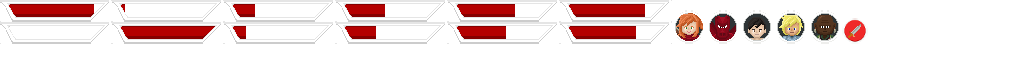
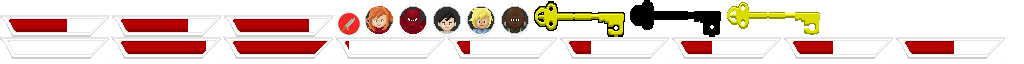
change key system, move key drawing to UI system

diff --git a/Prototypen/Prototype/core/src/org/sausagepan/prototyp/managers/EntityComponentSystem.java b/Prototypen/Prototype/core/src/org/sausagepan/prototyp/managers/EntityComponentSystem.java
@@ -26,7 +26,6 @@ import org.sausagepan.prototyp.model.components.IdComponent;
 import org.sausagepan.prototyp.model.components.InjurableAreaComponent;
 import org.sausagepan.prototyp.model.components.InputComponent;
 import org.sausagepan.prototyp.model.components.InventoryComponent;
-import org.sausagepan.prototyp.model.components.KeyViewerComponent;
 import org.sausagepan.prototyp.model.components.LightComponent;
 import org.sausagepan.prototyp.model.components.MagicComponent;
 import org.sausagepan.prototyp.model.components.MazeGenerator;
@@ -247,7 +246,6 @@ public class EntityComponentSystem {
             localCharacter.add(new MagicComponent(80));
             localCharacter.add(new InjurableAreaComponent(32 * 2.5f, 32 * .6f, .8f, 1f));
             localCharacter.add(new InventoryComponent());
-            localCharacter.add(new KeyViewerComponent(maze.getTiledMapRenderer().getBatch()));
         }
 
         if (clientClass.equals("fighter_m")) {
@@ -259,7 +257,6 @@ public class EntityComponentSystem {
             localCharacter.add(new MagicComponent(80));
             localCharacter.add(new InjurableAreaComponent(32 * 2.5f, 32 * .6f, .8f, 1f));
             localCharacter.add(new InventoryComponent());
-            localCharacter.add(new KeyViewerComponent(maze.getTiledMapRenderer().getBatch()));
         }
 
         if (clientClass.equals("archer_f")) {
@@ -271,7 +268,6 @@ public class EntityComponentSystem {
             localCharacter.add(new MagicComponent(80));
             localCharacter.add(new InjurableAreaComponent(32 * 2.5f, 32 * .6f, .8f, 1f));
             localCharacter.add(new InventoryComponent());
-            localCharacter.add(new KeyViewerComponent(maze.getTiledMapRenderer().getBatch()));
         }
 
         if (clientClass.equals("shaman_m")) {
@@ -283,7 +279,6 @@ public class EntityComponentSystem {
             localCharacter.add(new MagicComponent(80));
             localCharacter.add(new InjurableAreaComponent(32 * 2.5f, 32 * .6f, .8f, 1f));
             localCharacter.add(new InventoryComponent());
-            localCharacter.add(new KeyViewerComponent(maze.getTiledMapRenderer().getBatch()));
         }
 
         if (clientClass.equals("dragon_red")) {
@@ -295,7 +290,6 @@ public class EntityComponentSystem {
             localCharacter.add(new MagicComponent(80));
             localCharacter.add(new InjurableAreaComponent(32 * 2.5f, 32 * .6f, .8f * 2, 1f * 2));   //has to be *2 here and added in CharacterSpriteComponent and DynamicBodyComponent
             localCharacter.add(new InventoryComponent());
-            localCharacter.add(new KeyViewerComponent(maze.getTiledMapRenderer().getBatch()));
             maze.openSecretPassages();  // opens passages for game master
         }
 
@@ -366,7 +360,6 @@ public class EntityComponentSystem {
             newCharacter.add(new MagicComponent(80));
             newCharacter.add(new InjurableAreaComponent(32 * 2.5f, 32 * .6f, .8f, 1f));
             newCharacter.add(new InventoryComponent());
-            newCharacter.add(new KeyViewerComponent(maze.getTiledMapRenderer().getBatch()));
         }
 
         if (newHero.clientClass.equals("fighter_m")) {
@@ -379,7 +372,6 @@ public class EntityComponentSystem {
             newCharacter.add(new MagicComponent(80));
             newCharacter.add(new InjurableAreaComponent(32 * 2.5f, 32 * .6f, .8f, 1f));
             newCharacter.add(new InventoryComponent());
-            newCharacter.add(new KeyViewerComponent(maze.getTiledMapRenderer().getBatch()));
         }
 
         if (newHero.clientClass.equals("archer_f")) {
@@ -392,7 +384,6 @@ public class EntityComponentSystem {
             newCharacter.add(new MagicComponent(80));
             newCharacter.add(new InjurableAreaComponent(32 * 2.5f, 32 * .6f, .8f, 1f));
             newCharacter.add(new InventoryComponent());
-            newCharacter.add(new KeyViewerComponent(maze.getTiledMapRenderer().getBatch()));
         }
 
         if (newHero.clientClass.equals("shaman_m")) {
@@ -405,7 +396,6 @@ public class EntityComponentSystem {
             newCharacter.add(new MagicComponent(80));
             newCharacter.add(new InjurableAreaComponent(32 * 2.5f, 32 * .6f, .8f, 1f));
             newCharacter.add(new InventoryComponent());
-            newCharacter.add(new KeyViewerComponent(maze.getTiledMapRenderer().getBatch()));
         }
 
         // GameMaster - The Dragon
@@ -419,7 +409,6 @@ public class EntityComponentSystem {
             newCharacter.add(new MagicComponent(80));
             newCharacter.add(new InjurableAreaComponent(32 * 2.5f, 32 * .6f, .8f * 2, 1f * 2));     //has to be *2 here and added in CharacterSpriteComponent and DynamicBodyComponent
             newCharacter.add(new InventoryComponent());
-            newCharacter.add(new KeyViewerComponent(maze.getTiledMapRenderer().getBatch()));
         }
 
         characters.put(newCharacterId, newCharacter);
@@ -493,7 +482,8 @@ public class EntityComponentSystem {
 
 	public void takeKey(TakeKeyResponse result) {
 		if(characters.get(result.id) != null) {
-			characters.get(result.id).getComponent(InventoryComponent.class).addKeyPart(itemFactory.createKey(result.keySection));
+			characters.get(result.id).getComponent(InventoryComponent.class)
+                    .addKeyPart(itemFactory.createKey(result.keySection));
 			for(Key key : maze.getTiledMapRenderer().getKeys()) {
 				if(key.getKeySection().equals(result.keySection))
 					maze.getTiledMapRenderer().getKeys().remove(key);

diff --git a/Prototypen/Prototype/core/src/org/sausagepan/prototyp/managers/InGameUISystem.java b/Prototypen/Prototype/core/src/org/sausagepan/prototyp/managers/InGameUISystem.java
@@ -12,8 +12,11 @@ import com.badlogic.gdx.graphics.g2d.TextureRegion;
 import com.badlogic.gdx.math.MathUtils;
 import com.badlogic.gdx.utils.Array;
 
+import org.sausagepan.prototyp.model.Key;
 import org.sausagepan.prototyp.model.components.HealthComponent;
 import org.sausagepan.prototyp.model.components.InputComponent;
+import org.sausagepan.prototyp.model.components.InventoryComponent;
+import org.sausagepan.prototyp.model.components.NetworkComponent;
 
 /**
  * Created by georg on 11.11.15.
@@ -26,40 +29,57 @@ public class InGameUISystem extends ObservingEntitySystem {
     private Array<TextureRegion> healthBarImages;
     private TextureRegion knightImg;
     private TextureRegion recentHealthBarImg;
+    private TextureRegion attackButton;
+    private Array<TextureRegion> keyPartImgs;
+    private Array<Boolean> activeKeyPartImgs;
     private int HP;
 
     private ImmutableArray<Entity> entities;
 
     private ComponentMapper<HealthComponent> hm
             = ComponentMapper.getFor(HealthComponent.class);
+    private ComponentMapper<InventoryComponent> im
+            = ComponentMapper.getFor(InventoryComponent.class);
     /* ........................................................................... CONSTRUCTOR .. */
 
     public InGameUISystem(MediaManager media, Batch batch) {
         this.media = media;
         this.batch = new SpriteBatch();
         this.camera = new OrthographicCamera();
-        TextureAtlas atlas = media.getTextureAtlasType("healthBar");
+        TextureAtlas atlas = media.getTextureAtlasType("IngameUI");
+        this.activeKeyPartImgs = new Array<Boolean>(3);
+        this.activeKeyPartImgs.add(false);
+        this.activeKeyPartImgs.add(false);
+        this.activeKeyPartImgs.add(false);
+
+        // Get health bar Images
         this.healthBarImages = new Array<TextureRegion>();
-        this.healthBarImages.add(atlas.findRegion("healthbar_0tenth"));
-        this.healthBarImages.add(atlas.findRegion("healthbar_1tenth"));
-        this.healthBarImages.add(atlas.findRegion("healthbar_2tenth"));
-        this.healthBarImages.add(atlas.findRegion("healthbar_3tenth"));
-        this.healthBarImages.add(atlas.findRegion("healthbar_4tenth"));
-        this.healthBarImages.add(atlas.findRegion("healthbar_5tenth"));
-        this.healthBarImages.add(atlas.findRegion("healthbar_6tenth"));
-        this.healthBarImages.add(atlas.findRegion("healthbar_7tenth"));
-        this.healthBarImages.add(atlas.findRegion("healthbar_8tenth"));
-        this.healthBarImages.add(atlas.findRegion("healthbar_9tenth"));
-        this.healthBarImages.add(atlas.findRegion("healthbar_10tenth"));
-        this.healthBarImages.add(atlas.findRegion("healthbar_11tenth"));
+        for(int i=0; i<12; i++)
+            this.healthBarImages.add(atlas.findRegion("healthbar_" + i + "tenth"));
+
+        // Get Key part Images
+        this.keyPartImgs = new Array<TextureRegion>();
+        for(int i=0; i<4; i++)
+            this.keyPartImgs.add(atlas.findRegion("key", i));
+
+        this.attackButton = atlas.findRegion("attackButton");
         this.knightImg = atlas.findRegion("face_knight");
         this.recentHealthBarImg = healthBarImages.get(11);
     }
     /* ............................................................................... METHODS .. */
+
+    /**
+     * Draws the Ingame UI like healthbar, character image, keys, items, buttons and so on
+     */
     public void draw() {
         this.batch.begin();
         this.batch.draw(knightImg, 16, 400, 64, 64);
         this.batch.draw(recentHealthBarImg, 70, 424, 220, 40);
+        this.batch.draw(attackButton, 32, 32, 48, 48);
+        batch.draw(keyPartImgs.get(0), 690, 429);
+        if(activeKeyPartImgs.get(0)) batch.draw(keyPartImgs.get(1), 691, 430);
+        if(activeKeyPartImgs.get(1)) batch.draw(keyPartImgs.get(2), 723, 430);
+        if(activeKeyPartImgs.get(2)) batch.draw(keyPartImgs.get(3), 755, 430);
         this.batch.end();
         this.camera.update();
     }
@@ -68,7 +88,9 @@ public class InGameUISystem extends ObservingEntitySystem {
     public void addedToEngine(ObservableEngine engine) {
         entities = engine.getEntitiesFor(Family.all(
                 HealthComponent.class,
-                InputComponent.class).get());
+                InputComponent.class,
+                NetworkComponent.class,
+                InventoryComponent.class).get());
     }
 
     public void update(float deltaTime) {
@@ -76,6 +98,9 @@ public class InGameUISystem extends ObservingEntitySystem {
             HealthComponent health = hm.get(entity);
             HP = MathUtils.roundPositive((float) health.HP/(health.initialHP)*10)+1;
             recentHealthBarImg = healthBarImages.get(HP);
+
+            InventoryComponent inventory = im.get(entity);
+            this.activeKeyPartImgs = inventory.getActiveKeys();
         }
     }
     /* ..................................................................... GETTERS & SETTERS .. */

diff --git a/Prototypen/Prototype/core/src/org/sausagepan/prototyp/model/components/InventoryComponent.java b/Prototypen/Prototype/core/src/org/sausagepan/prototyp/model/components/InventoryComponent.java
@@ -1,6 +1,7 @@
 package org.sausagepan.prototyp.model.components;
 
 import com.badlogic.ashley.core.Component;
+import com.badlogic.gdx.utils.Array;
 
 import org.sausagepan.prototyp.model.Item;
 import org.sausagepan.prototyp.model.Key;
@@ -21,6 +22,7 @@ public class InventoryComponent implements Component {
     /*..................................................................................Attributes*/
     public Map<Item, Integer> backpack;
     public List<Key> keyBag;
+    public Array<Boolean> activeKeys;
     public boolean isKeyHolder;
     public WeaponItem weapon;
     //public Map map;
@@ -30,6 +32,10 @@ public class InventoryComponent implements Component {
     {
         backpack = new HashMap<Item, Integer>();
         isKeyHolder = false;
+        this.activeKeys = new Array<Boolean>(3);
+        this.activeKeys.add(false);
+        this.activeKeys.add(false);
+        this.activeKeys.add(false);
     }
 
     /*..........................................................................Backpack functions*/
@@ -85,14 +91,15 @@ public class InventoryComponent implements Component {
 
         switch(key.getKeySection())
         {
-            case PartOne: this.keyBag.set(0, key); break;
-            case PartTwo: this.keyBag.set(1, key); break;
-            case PartThree:  this.keyBag.set(2, key); break;
+            case PartOne:   this.keyBag.set(0, key); activeKeys.set(0, true); break;
+            case PartTwo:   this.keyBag.set(1, key); activeKeys.set(1, true); break;
+            case PartThree: this.keyBag.set(2, key); activeKeys.set(2, true);break;
         }
     }
 
     public List<Key> loseKeys()
     {
+        for(Boolean b : activeKeys) b=false;
         if(!isKeyHolder)
             return null;
 
@@ -109,5 +116,10 @@ public class InventoryComponent implements Component {
         }
         return keys;
     }
+
+    public Array<Boolean> getActiveKeys() {
+        return activeKeys;
+    }
+
 
 }

diff --git a/Prototypen/Prototype/core/src/org/sausagepan/prototyp/managers/MediaManager.java b/Prototypen/Prototype/core/src/org/sausagepan/prototyp/managers/MediaManager.java
@@ -117,7 +117,7 @@ public class MediaManager {
      */
     public TextureAtlas getTextureAtlasType(String type) {
         if(type.equals("weapons")) return assets.get(weaponsSpriteSheetFile);
-        if(type.equals("healthBar")) return assets.get(IngameUISheetFile);
+        if(type.equals("IngameUI")) return assets.get(IngameUISheetFile);
         return null;
     }
 

diff --git a/Prototypen/Prototype/core/src/org/sausagepan/prototyp/model/GlobalSettings.java b/Prototypen/Prototype/core/src/org/sausagepan/prototyp/model/GlobalSettings.java
@@ -7,6 +7,6 @@ public class GlobalSettings {
     public final static int charSpriteWidth = 28;
     public final static int charSpriteHeight= 36;
     public final static int PIXELS_PER_METER = 32;
-    public final static int MANDATORY_CLIENTS = 2;
+    public final static int MANDATORY_CLIENTS = 1;
     public final static int GAME_ZOOM_OUT = 1;
 }

diff --git a/Prototypen/Prototype/core/src/org/sausagepan/prototyp/managers/InventorySystem.java b/Prototypen/Prototype/core/src/org/sausagepan/prototyp/managers/InventorySystem.java
@@ -202,6 +202,7 @@ public class InventorySystem extends ObservingEntitySystem {
     }
 
     //the keys are shown as part of the ui
+    @Deprecated
     public void drawKeys()
     {
         /*for(int x= 0; x < characters.size(); x++)

diff --git a/Prototypen/Prototype/core/src/org/sausagepan/prototyp/model/components/KeyViewerComponent.java b/Prototypen/Prototype/core/src/org/sausagepan/prototyp/model/components/KeyViewerComponent.java
@@ -24,6 +24,7 @@ import javax.swing.text.View;
 /**
  * Created by Bettina on 02.11.2015.
  */
+@Deprecated
 public class KeyViewerComponent implements ApplicationListener, Component {
 
     private Stage stage;
